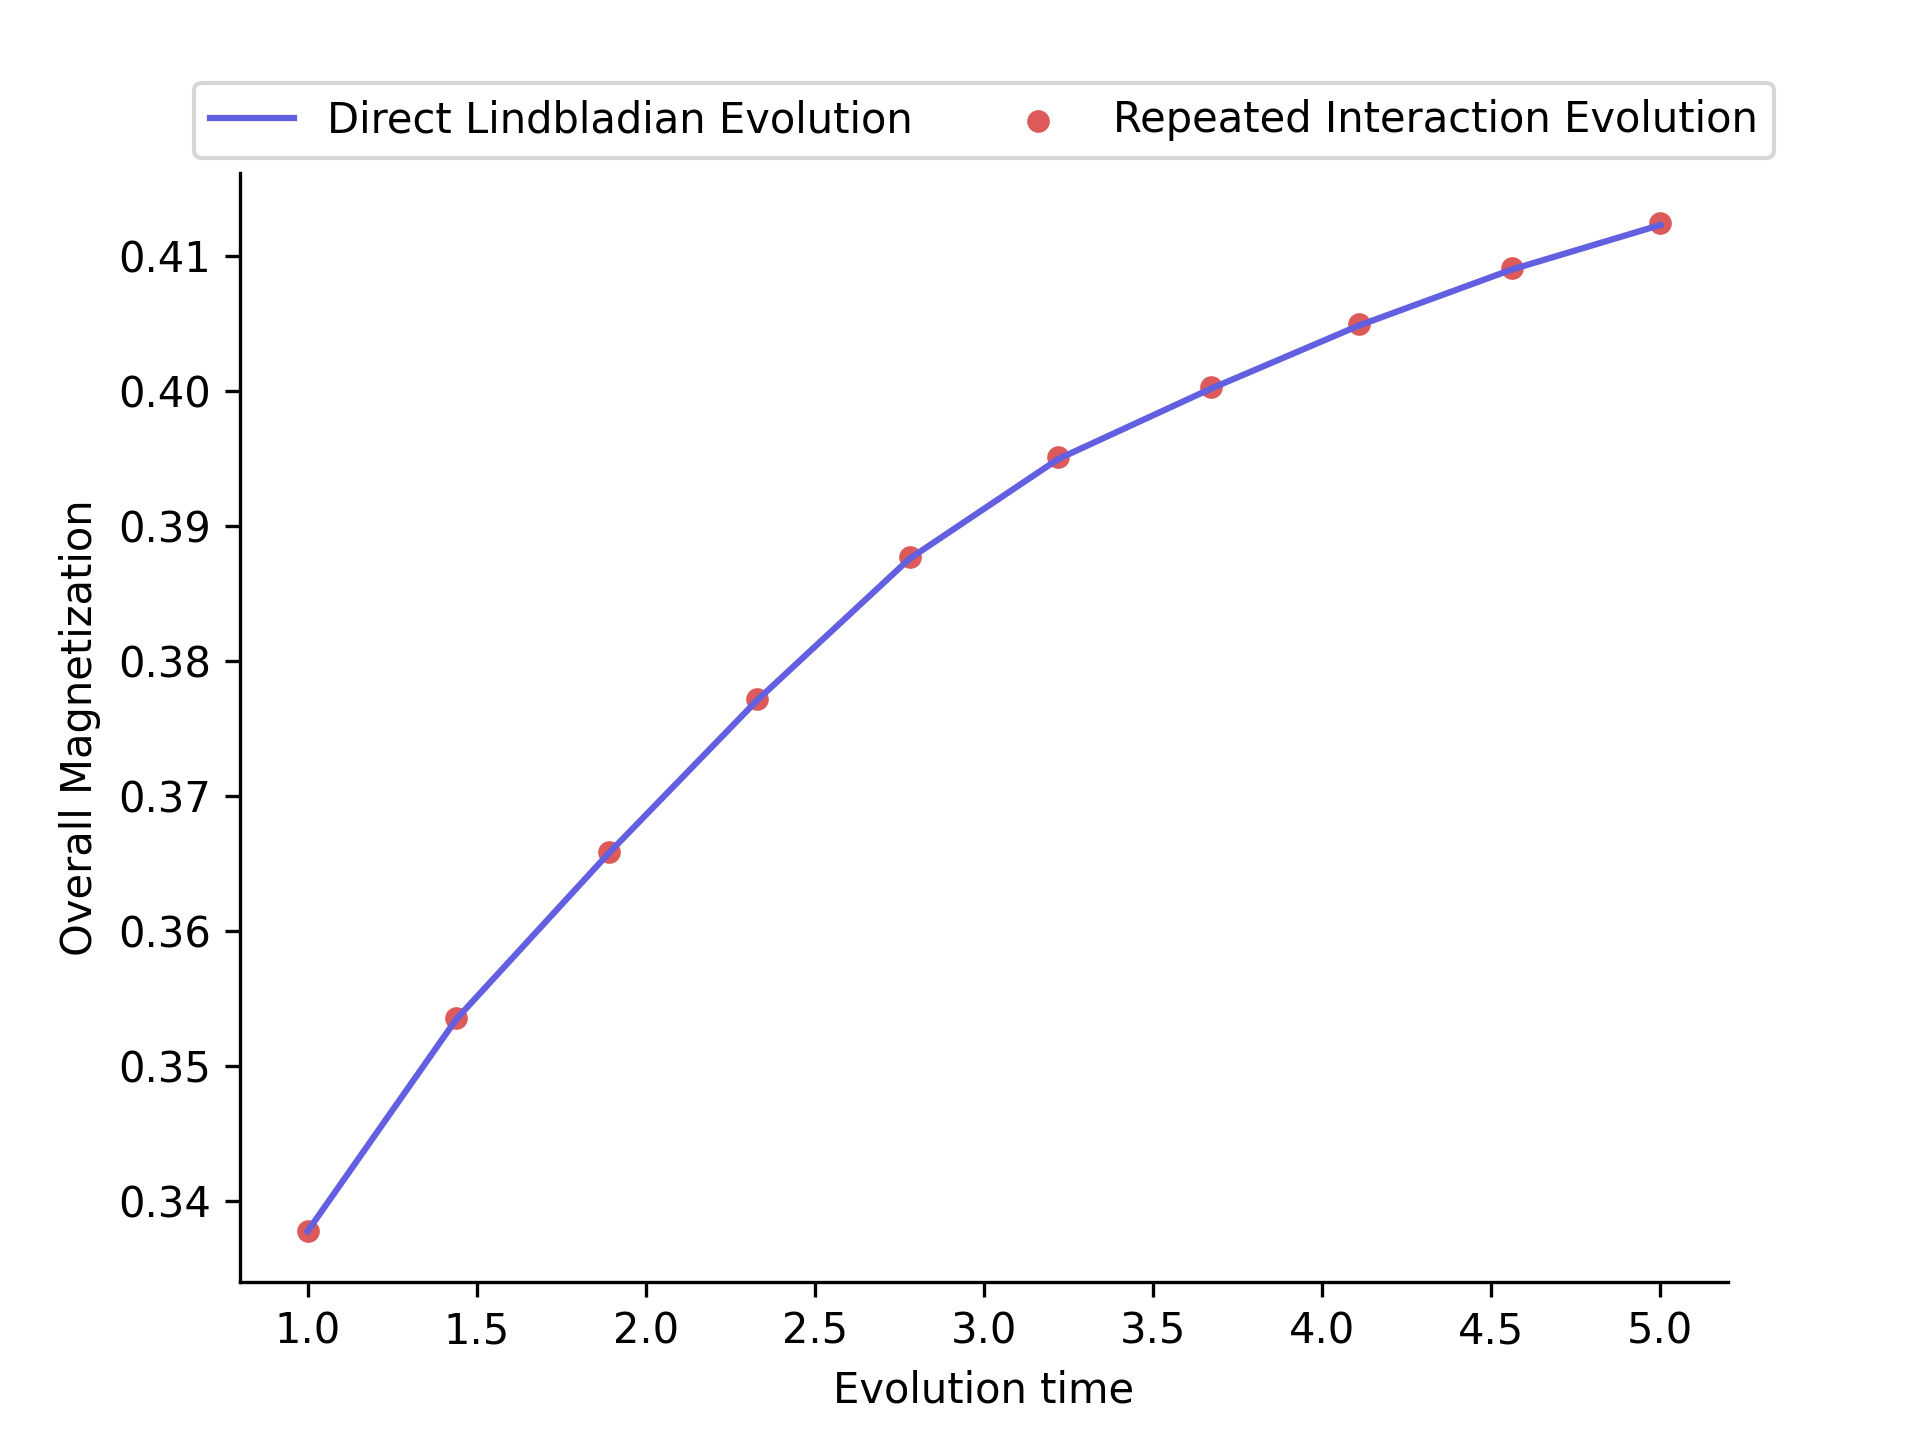
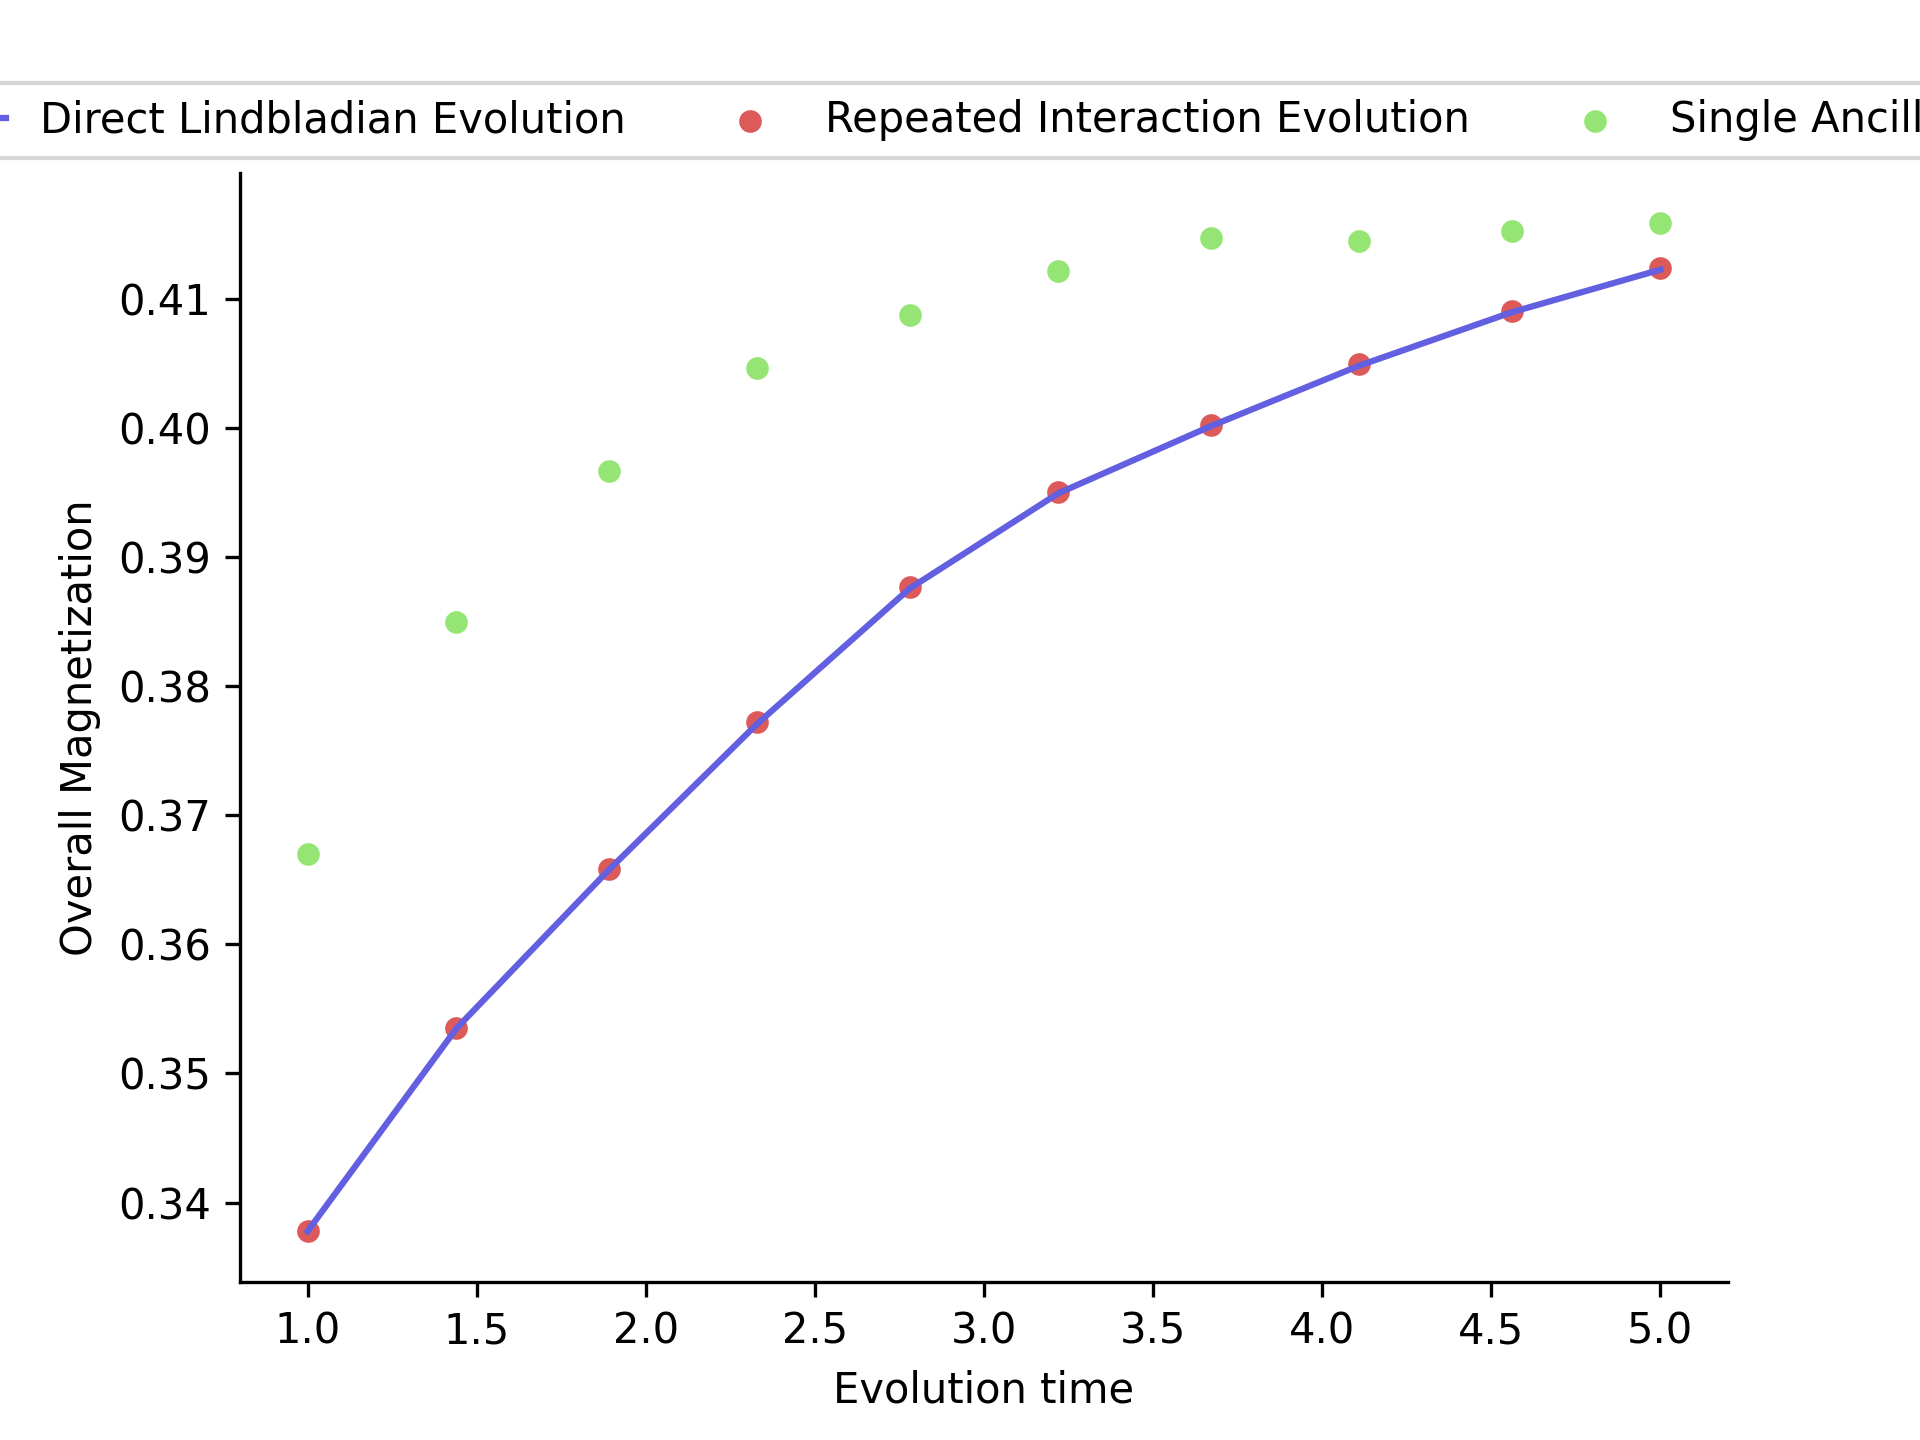
SAL works, but a lot of error

diff --git a/ising/lindbladian/simulation/imprecise/multi_cm_damping.py b/ising/lindbladian/simulation/imprecise/multi_cm_damping.py
@@ -65,7 +65,7 @@ from ising.lindbladian.simulation.utils import save_interaction_hams, load_inter
 
 def test_main():
     np.random.seed(42)
-    results = {"interaction": {}, "lindbladian": {}}
+    results = {"interaction": {}, "lindbladian": {}, "sal": {}}
 
     gamma = GAMMA
     inv_temp = INV_TEMP
@@ -103,11 +103,11 @@ def test_main():
 
         print(f"Running for time:{time}, neu:{neu}")
         us = []
-        # taylors = []
+        taylors = []
         for ham_int in ham_ints_sparse:
-            ham_sparse = (np.sqrt(tau) * big_ham_sys.to_matrix() / QUBIT_COUNT) + ham_int.to_matrix()
+            ham_sparse = (np.sqrt(tau) * big_ham_sys / QUBIT_COUNT) + ham_int
 
-            eig_val, eig_vec = np.linalg.eig(ham_sparse)
+            eig_val, eig_vec = np.linalg.eig(ham_sparse.to_matrix())
             eig_vec_inv = np.linalg.inv(eig_vec)
 
             u = matrix_exp(eig_vec, eig_val, eig_vec_inv, time=np.sqrt(tau))
@@ -116,9 +116,9 @@ def test_main():
             """
             This is constructing the Taylor Circuits
             """
-            # taylor = Taylor(ham_sparse.paulis, ham_sparse.coeffs, ham_sim_error)
-            # taylor.setup_time(np.sqrt(tau))
-            # taylors.append(taylor)
+            taylor = Taylor(ham_sparse.paulis, ham_sparse.coeffs, ham_sim_error)
+            taylor.setup_time(np.sqrt(tau))
+            taylors.append(taylor)
 
         print("Ham operator calculation complete")
 
@@ -136,31 +136,31 @@ def test_main():
         results["interaction"][time] = np.trace(np.abs(observable.matrix @ rho_sys_exact))
 
         print("Exact complete, sampling from SAL now")
-        # with tqdm(total=SAL_RUNS, desc="SAL runs") as pbar:
-        #     sampling_results = []
-        #     for _ in range (SAL_RUNS):
-        #         pbar.update(1)
-        #         rho_sys_sal = rho_sys.copy()
-        #         with tqdm(total=neu, desc="Neu bar", leave=False) as pbar_inner:
-        #             for _ in range(neu):
-        #                 pbar_inner.update(1)
-        #                 for taylor in taylors:
-        #                     complete_rho = np.kron(rho_sys_sal, rho_env)
-        #                     complete_rho = np.kron(RHO_PLUS, complete_rho)
+        with tqdm(total=SAL_RUNS, desc="SAL runs") as pbar:
+            sampling_results = []
+            for _ in range (SAL_RUNS):
+                pbar.update(1)
+                rho_sys_sal = rho_sys.copy()
+                with tqdm(total=neu, desc="Neu bar", leave=False) as pbar_inner:
+                    for _ in range(neu):
+                        pbar_inner.update(1)
+                        for taylor in taylors:
+                            complete_rho = np.kron(rho_sys_sal, rho_env)
+                            complete_rho = np.kron(RHO_PLUS, complete_rho)
 
-        #                     u = taylor.sample_matrix()
+                            u = taylor.sample_matrix()
 
-        #                     rho_fin = (
-        #                         u @ complete_rho @ u.conj().T
-        #                     )
-        #                     rho_fin = partial_trace(rho_fin, [0])
+                            rho_fin = (
+                                u @ complete_rho @ u.conj().T
+                            )
+                            rho_fin = partial_trace(rho_fin, [0])
 
-        #                     rho_sys_sal = partial_trace(rho_fin, list(range(QUBIT_COUNT, QUBIT_COUNT + 1)))
+                            rho_sys_sal = partial_trace(rho_fin, list(range(QUBIT_COUNT, QUBIT_COUNT + 1)))
 
-        #         result = np.trace(np.abs(observable.matrix @ rho_sys_sal))
-        #         sampling_results.append(result)
+                result = np.trace(np.abs(observable.matrix @ rho_sys_sal))
+                sampling_results.append(result)
 
-        #     results["sal"][time] = calculate_mu(sampling_results, SAL_RUNS, [1])
+            results["sal"][time] = calculate_mu(sampling_results, SAL_RUNS, [1])
 
 
 

diff --git a/ising/lindbladian/plot/plot_multi_cm_damping_imprecise.py b/ising/lindbladian/plot/plot_multi_cm_damping_imprecise.py
@@ -30,6 +30,7 @@ def test_main():
     time_labels = list(results["interaction"].keys())
     interaction = _get_value_time_order(results, time_labels, "interaction")
     lindbladian = _get_value_time_order(results, time_labels, "lindbladian")
+    sal = _get_value_time_order(results, time_labels, "sal")
 
     times = [_round(float(time_str)) for time_str in time_labels]
 
@@ -47,14 +48,13 @@ def test_main():
         color=COLORS[0],
     )
 
-    # trotter = _get_value_time_order(results, times, "trotter")
-    # ax = sns.scatterplot(
-    #     x=times,
-    #     y=trotter,
-    #     label=f"Trotterization",
-    #     s=35,
-    #     color=COLORS[2],
-    # )
+    ax = sns.scatterplot(
+        x=times,
+        y=sal,
+        label=f"Single Ancilla LCU",
+        s=35,
+        color=COLORS[2],
+    )
 
     # Remove the top and right border
     ax.spines["top"].set_visible(False)
